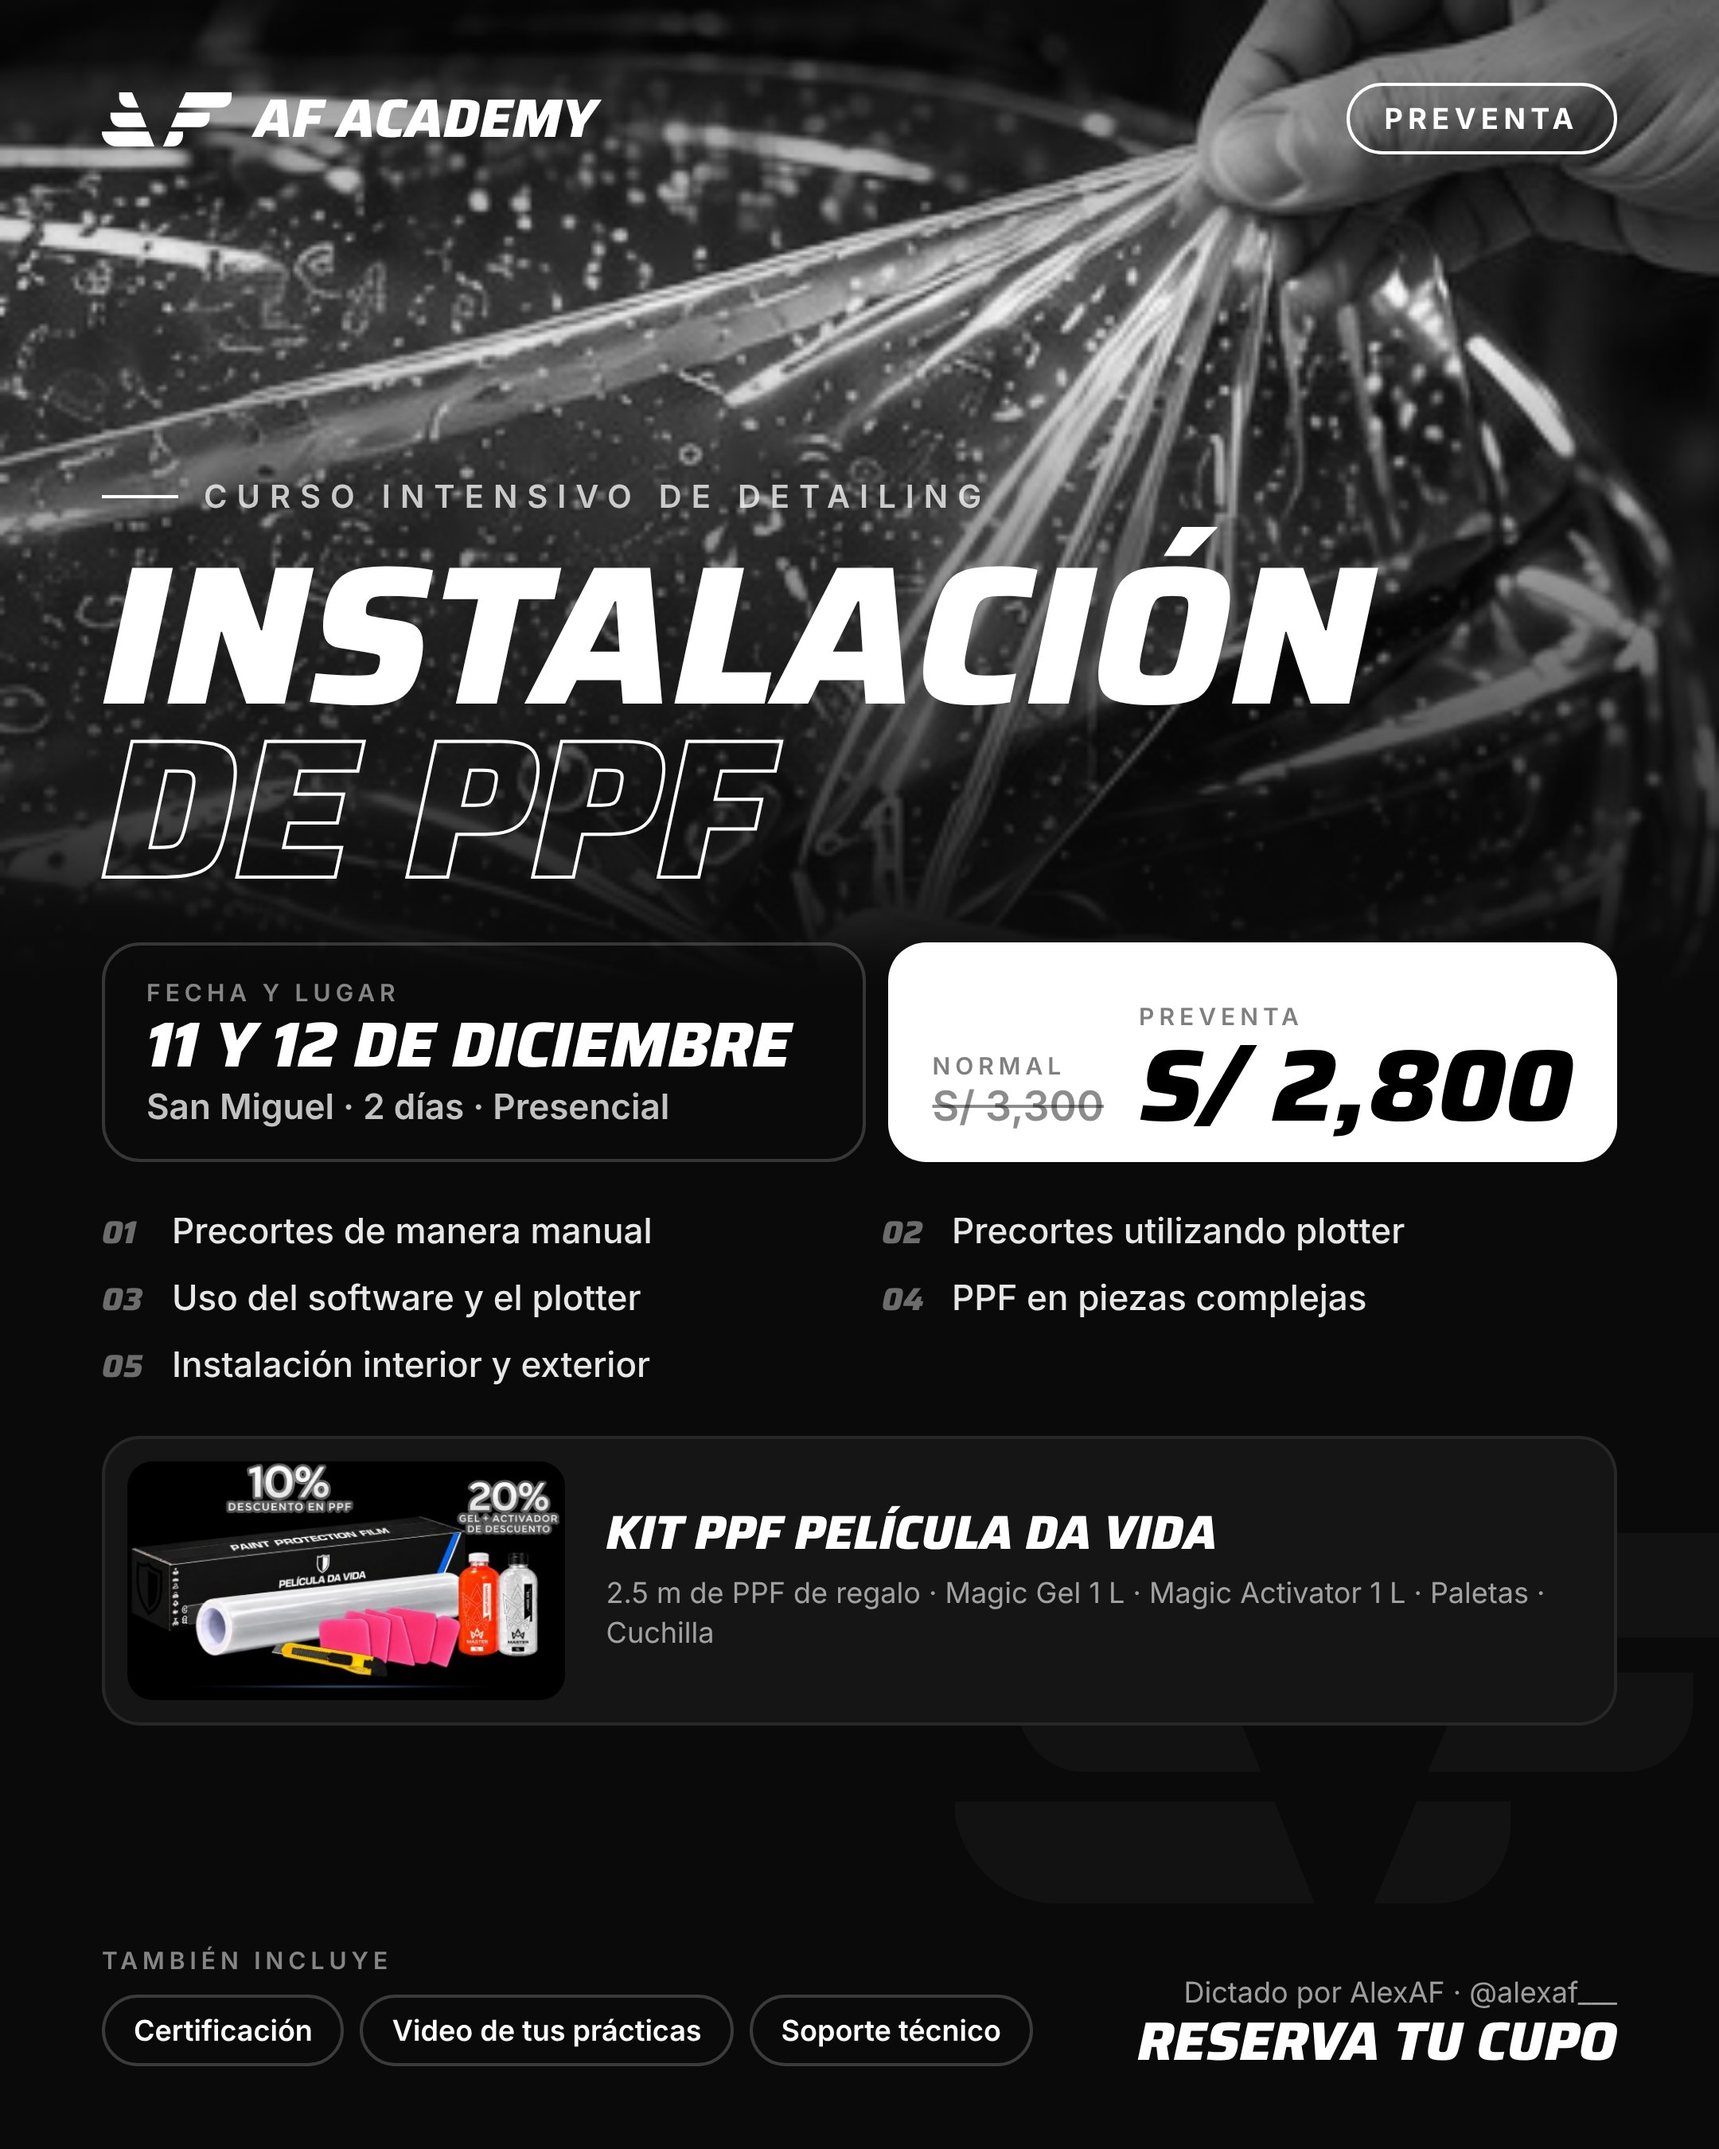
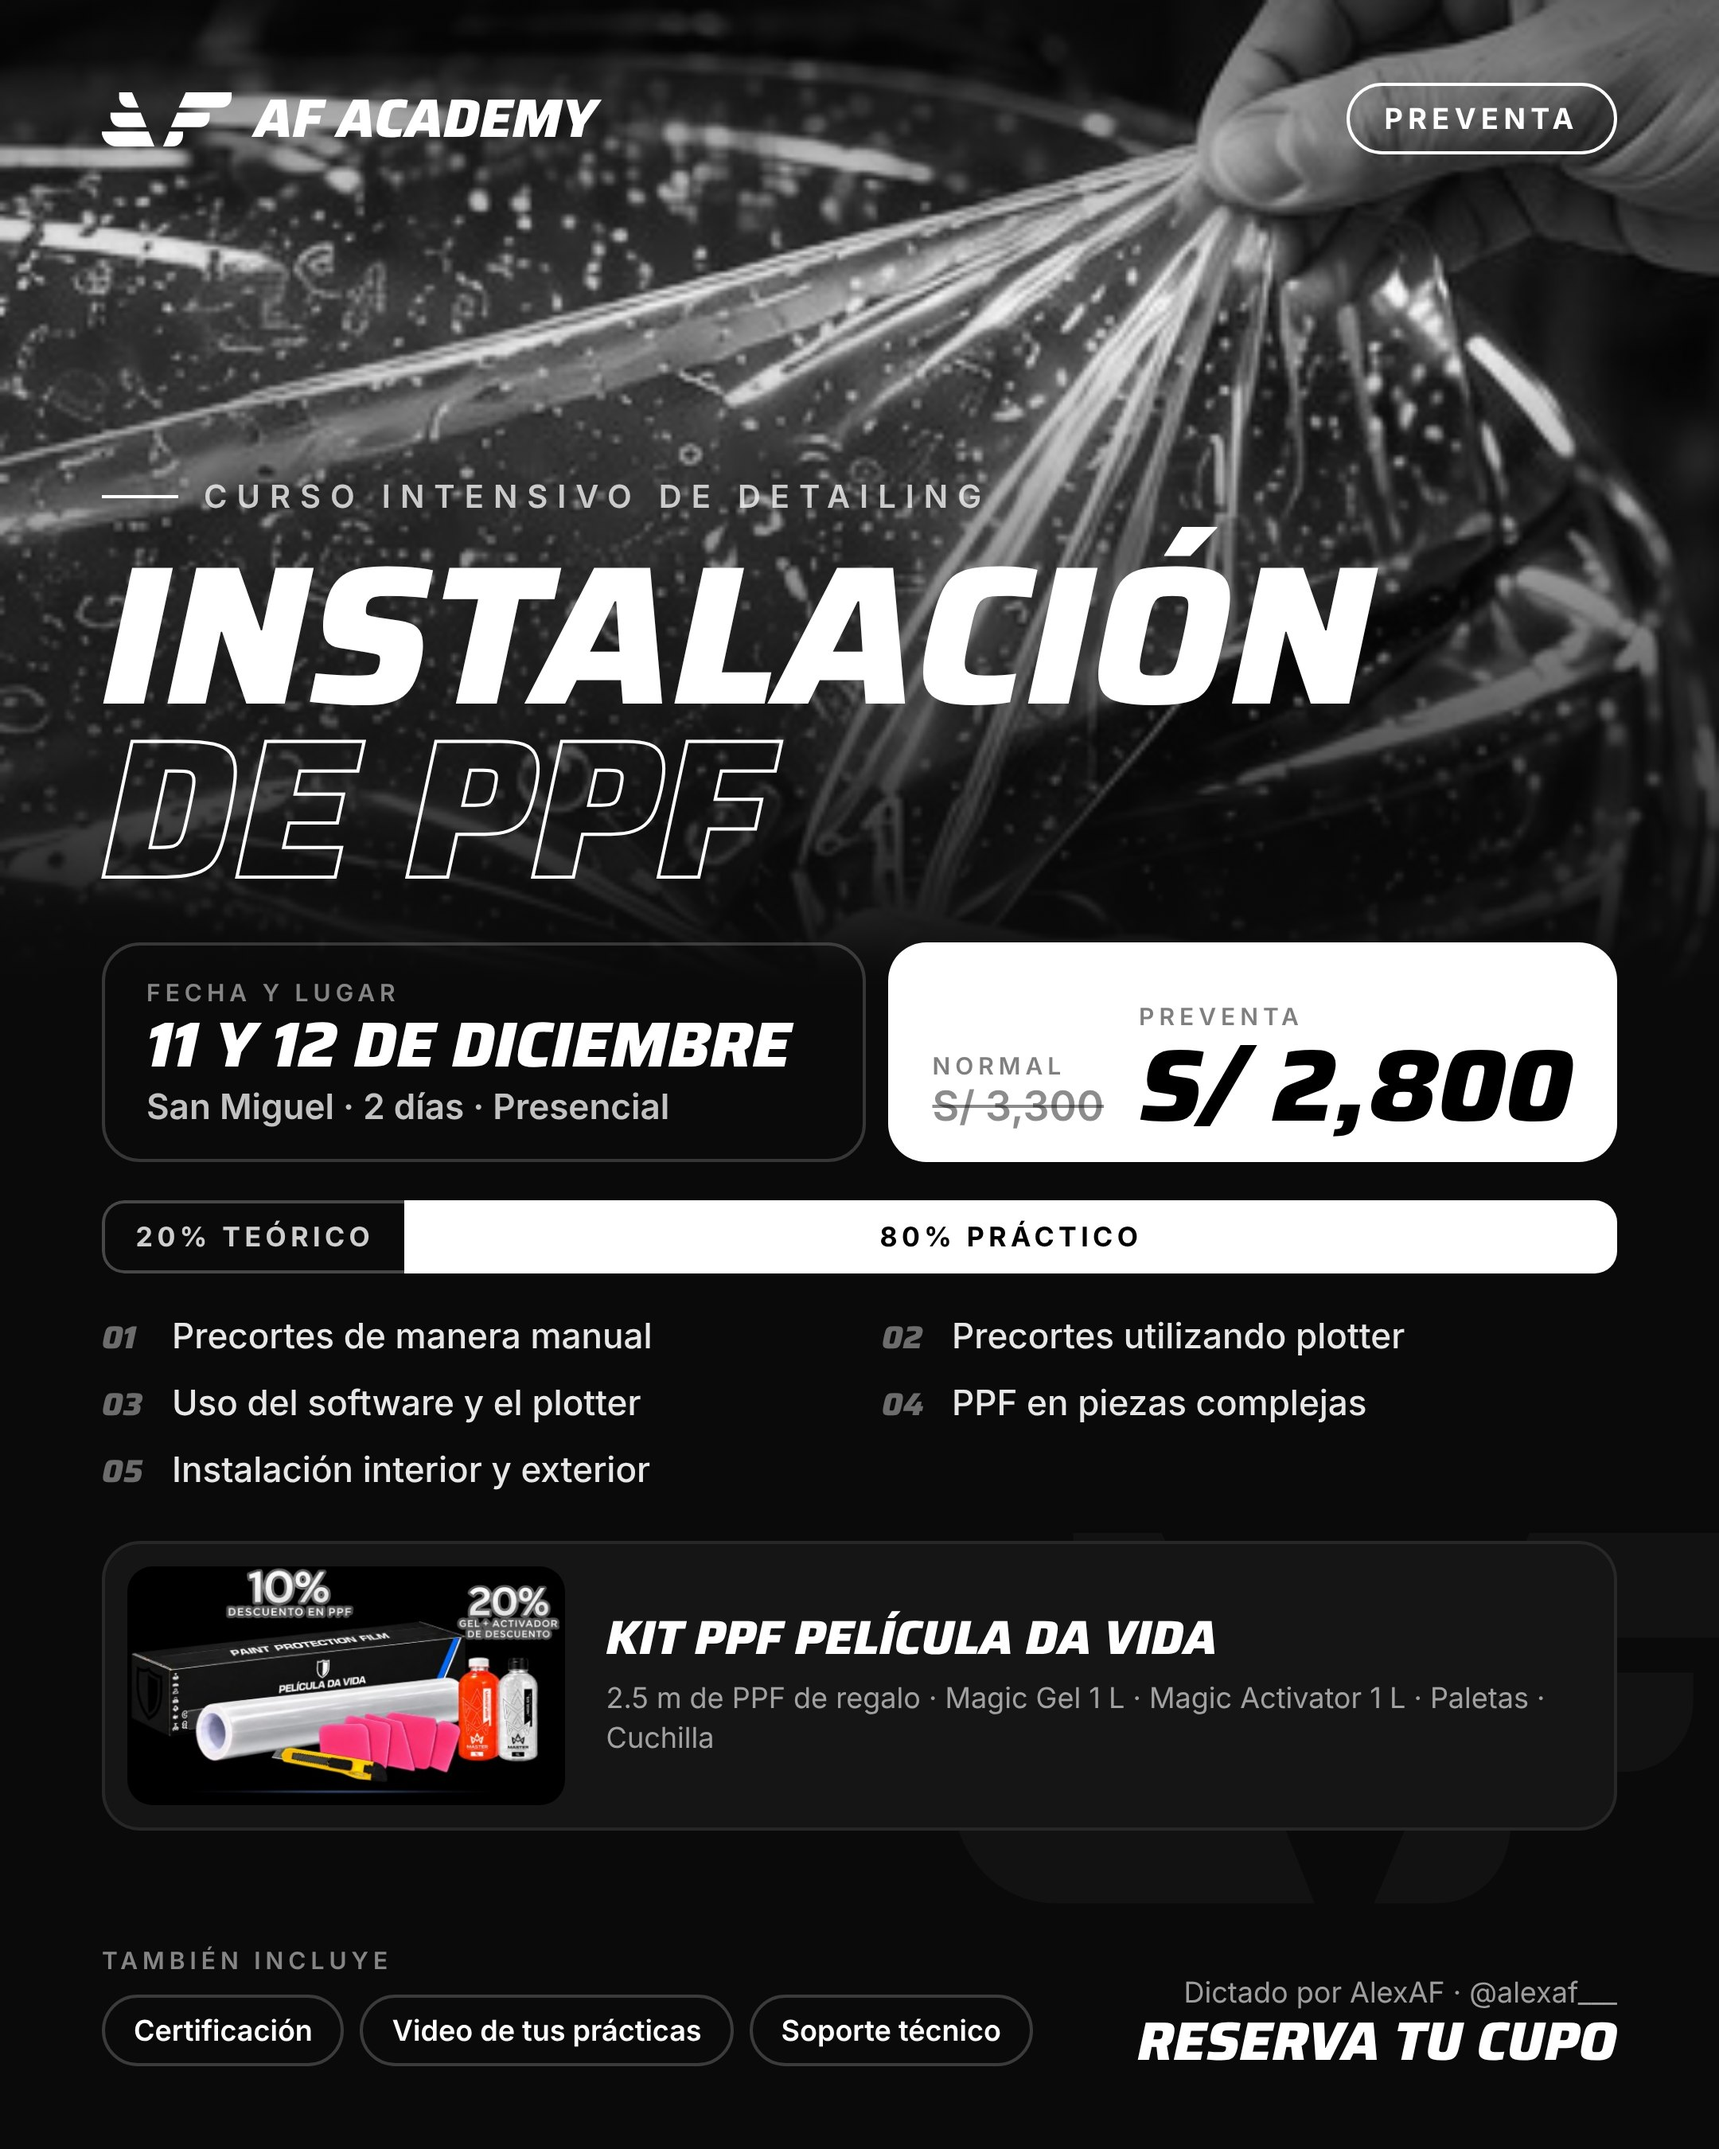
Cursos: 20% teórico y 80% práctico en web, anuncio, preguntas y flyers
Claude-Session: https://claude.ai/code/session_01JeKCNjXde6szZMvGvJ2iR1

diff --git a/scripts/flyers/make.js b/scripts/flyers/make.js
@@ -19,7 +19,7 @@ const courses = [
     hero: "hero-ceramico.png",
     kitImg: "kit-ceramico.png",
     kit: "Kit Alcance Pro para tus primeros servicios",
-    kitItems: "Aquo Alcalino · Aquo Neutro · Ziox · Lae36 · Claybar · VX45 20 ml ×2",
+    kitItems: "Aquo Alcalino · Aquo Neutro · Ziox · Lae36 · Claybar · VX45&nbsp;20&nbsp;ml&nbsp;×2",
     modules: [
       "Distinguir los pH de shampoos",
       "Prelavado acorde a cada superficie",
@@ -75,7 +75,8 @@ h1 .o{color:transparent;-webkit-text-stroke:2px #fff}
 .price s{white-space:nowrap;font-size:26px;color:rgba(0,0,0,.45);font-weight:600}
 .price .k{color:rgba(0,0,0,.5)}
 .price .v{font-size:64px;white-space:nowrap}
-.grid{display:grid;grid-template-columns:1fr 1fr;gap:10px 28px;margin-top:28px}
+.split{display:flex;margin-top:24px;height:46px;border-radius:14px;overflow:hidden;font-size:17px;font-weight:700;letter-spacing:.16em;text-transform:uppercase}.split .th{width:20%;display:flex;align-items:center;justify-content:center;border:2px solid rgba(255,255,255,.25);border-right:0;border-radius:14px 0 0 14px;color:rgba(255,255,255,.8)}.split .pr{flex:1;display:flex;align-items:center;justify-content:center;background:#fff;color:#000}
+.grid{display:grid;grid-template-columns:1fr 1fr;gap:10px 28px;margin-top:24px}
 .grid li{list-style:none;font-size:22px;font-weight:500;display:flex;gap:14px;align-items:baseline;color:rgba(255,255,255,.9)}
 .grid li b{font-family:Saira;font-style:italic;font-weight:800;font-size:20px;color:rgba(255,255,255,.4);min-width:30px}
 .kit{display:flex;align-items:center;gap:26px;margin-top:28px;border-radius:24px;background:#151515;border:2px solid rgba(255,255,255,.08);padding:14px 26px 14px 14px}
@@ -99,6 +100,7 @@ h1 .o{color:transparent;-webkit-text-stroke:2px #fff}
     <div class="box" style="flex:1"><div class="k">Fecha y lugar</div><div class="v d">${c.date}</div><div style="font-size:22px;font-weight:600;margin-top:8px;color:rgba(255,255,255,.75)">San Miguel · 2 días · Presencial</div></div>
     <div class="price"><div><div class="k">Normal</div><s>${c.normal}</s></div><div><div class="k">Preventa</div><div class="v d">${c.presale}</div></div></div>
   </div>
+  <div class="split"><div class="th">20% teórico</div><div class="pr">80% práctico</div></div>
   <ul class="grid">${c.modules.map((m, i) => `<li><b>${String(i + 1).padStart(2, "0")}</b>${m}</li>`).join("")}</ul>
   <div class="kit"><img src="${img(c.kitImg)}"><div><div class="d t">${c.kit}</div><p>${c.kitItems}</p></div></div>
 </div>

diff --git a/src/app/cursos/[slug]/page.tsx b/src/app/cursos/[slug]/page.tsx
@@ -134,6 +134,25 @@ export default async function CoursePage({ params }: PageProps<"/cursos/[slug]">
               </Block>
             )}
 
+            {c.split && (
+              <Block title="Metodología">
+                <div className="flex h-16 overflow-hidden rounded-2xl text-sm font-bold tracking-[0.12em] uppercase">
+                  <div
+                    className="flex items-center justify-center rounded-l-2xl border border-r-0 border-black/15 px-3 text-black/70"
+                    style={{ width: `${c.split.theory}%` }}
+                  >
+                    {c.split.theory}% teórico
+                  </div>
+                  <div className="flex flex-1 items-center justify-center bg-black text-white">
+                    {c.split.practice}% práctico
+                  </div>
+                </div>
+                <p className="mt-4 text-black/60">
+                  El curso es 20% teórico y 80% práctico: la mayor parte del tiempo aplicas lo aprendido, guiado por Alex.
+                </p>
+              </Block>
+            )}
+
             <Block title="Lo que aprenderás">
               {c.modules.length ? (
                 <ol className="divide-y divide-black/10 border-y border-black/10">

diff --git a/src/content/courses.ts b/src/content/courses.ts
@@ -43,6 +43,8 @@ export type Course = {
   modules: string[];
   /** Lo que incluye el curso además de las clases. */
   includes: string[];
+  /** Porcentaje de teoría y práctica. null = no se muestra. */
+  split: { theory: number; practice: number } | null;
   kit: Kit | null;
   /** Imágenes en /public. "" = sin imagen. */
   images: { hero: string; kit: string; flyer: string };
@@ -79,6 +81,7 @@ export const courses: Course[] = [
       "Aplicación de recubrimiento cerámico",
     ],
     includes: commonIncludes,
+    split: { theory: 20, practice: 80 },
     kit: {
       title: "Kit Alcance Pro para tus primeros servicios",
       brand: "Alcance Pro",
@@ -127,6 +130,7 @@ export const courses: Course[] = [
       "Instalación de PPF interior y exterior",
     ],
     includes: commonIncludes,
+    split: { theory: 20, practice: 80 },
     kit: {
       title: "Kit PPF para tus primeros servicios",
       brand: "Película Da Vida",
@@ -162,6 +166,7 @@ export const courses: Course[] = [
     audience: "",
     modules: [],
     includes: [],
+    split: null,
     kit: null,
     images: { hero: "", kit: "", flyer: "" },
     featured: false,

diff --git a/src/content/media.ts b/src/content/media.ts
@@ -54,6 +54,10 @@ export const faqs: Faq[] = [
     q: "¿Cuánto cuestan los cursos?",
     a: "En preventa, Tratamiento Cerámico cuesta S/ 1,300 (precio normal S/ 1,500) e Instalación de PPF S/ 2,800 (precio normal S/ 3,300). Si llevas ambos cursos pagas S/ 3,900 y ahorras S/ 200.",
   },
+  {
+    q: "¿Las clases son teóricas o prácticas?",
+    a: "Ambos cursos son 20% teóricos y 80% prácticos.",
+  },
   { q: "¿Necesito experiencia previa?", a: "" }, // PENDIENTE
   { q: "¿Qué medios de pago aceptan?", a: "" }, // PENDIENTE
   { q: "¿Entregan certificado?", a: "Sí. Ambos cursos incluyen certificación, el video de tus prácticas y soporte técnico." },

diff --git a/src/components/sections/Courses.tsx b/src/components/sections/Courses.tsx
@@ -109,6 +109,11 @@ function CourseCard({ course: c, index }: { course: Course; index: number }) {
           <IconCap className="size-4" />
           Certificación
         </li>
+        {c.split && (
+          <li className="inline-flex items-center gap-2 font-semibold text-white">
+            {c.split.practice}% práctico
+          </li>
+        )}
       </ul>
 
       {c.modules.length > 0 && (

diff --git a/src/components/AnnouncementModal.tsx b/src/components/AnnouncementModal.tsx
@@ -110,6 +110,7 @@ export function AnnouncementModal() {
                     <IconPin className="size-4" />
                     {c.location || c.modality}
                   </span>
+                  {c.split && <span>{c.split.practice}% práctico</span>}
                 </div>
                 {c.presalePrice && (
                   <p className="mt-2 text-sm">
